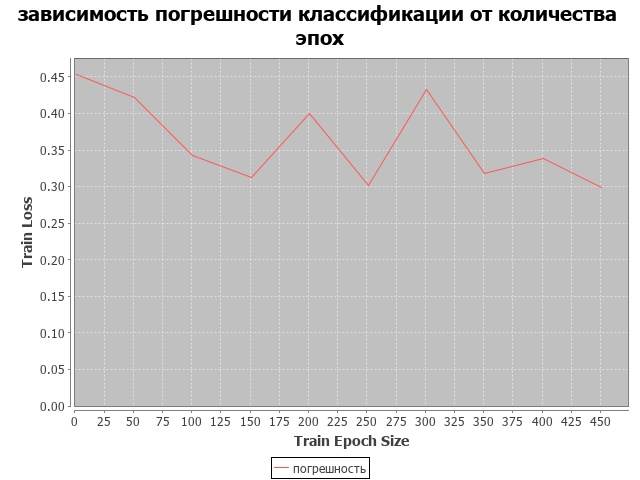
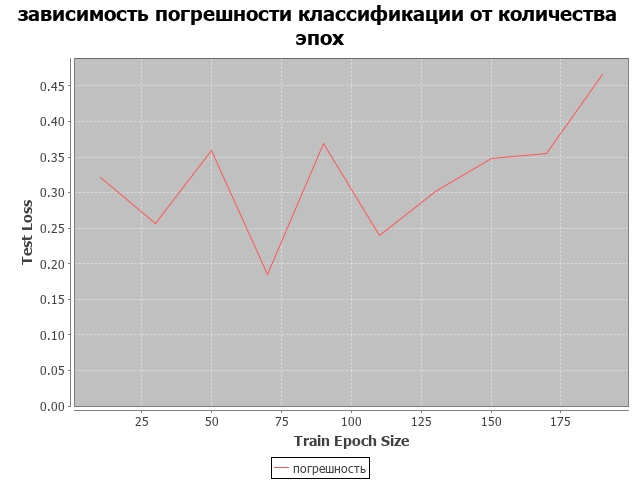
Final

diff --git a/src/main/java/bchk_perceptron/Main.java b/src/main/java/bchk_perceptron/Main.java
@@ -32,15 +32,60 @@ public class Main {
 
     //todo: 1. by Nu -- done 2. by fuzzy neuron -- done  3. by hidden neurons -- done  4. by trainSize 5. epoch -- done
     public static void main(String[] args) throws IOException {
-       // epochTest();
-       // learnSpeedTest();
+         //epochTest();
+       //learnSpeedTest();
         //onetimetest();
         //fuzzyLayerSize();
         //deepNeuroneLayerSize();
-        byTestSize();
+        //byTestSize();
+        //learnSpeedTest2();
+        successful();
 
     }
 
+
+    public static void successful() throws IOException {
+        double[][] myset = DatasetTools.WineSet.readWineData();
+        PreprocessingTools.shuffle(myset, (int) new Date().getTime());
+        PreprocessingTools.normalize(myset, -1, 1);
+
+        List<String> pam = new ArrayList<>();
+        for (int i = 0; i < 3; i++) {
+            pam.add(i, Integer.toString(i + 1));
+        }
+
+
+        //double[] res = {0.0, 0.0};
+
+
+        Model model = new Model();
+        ModelConfiguration mc = ModelConfiguration.prepareConfigurationForFuzzyTest(myset, pam);
+        List<Double> x = new ArrayList<>();
+        List<Double> y = new ArrayList<>();
+        List<Double> z = new ArrayList<>();
+        for (int i = 0; i < 1; i ++) {
+            mc.setTestSize(96);
+            mc.setTrainSize(70);
+            mc.setEpochs(150);
+            mc.setFuzzySize(23);
+            mc.setPerceptronSize(14); //4 na 9, 5 na 10, 6 na 12
+            mc.setNu(0.85);
+            Model models = new Model();
+
+            double[] res = {0.0, 0.0};
+            models.createAndExecute(mc, true, res);
+            // x.add((double)i);
+            x.add((double) i);
+            y.add(res[1]);
+            z.add(res[0]);
+        }
+        System.out.println(x.size());
+        System.out.println(y.size());
+        for (int i = 0; i < x.size(); i++) {
+            System.out.println();
+            System.out.println(x.get(i) + " Test Loss " + y.get(i) + " Train loss " + z.get(i));
+        }
+    }
 
     public static void byTestSize() throws IOException {
         double[][] myset = DatasetTools.WineSet.readWineData();
@@ -63,10 +108,13 @@ public class Main {
         List<Double> x = new ArrayList<>();
         List<Double> y = new ArrayList<>();
         List<Double> z = new ArrayList<>();
-        for (int i = 10; i < 178; i += 10) {
+        for (int i = 10; i < 178; i += 2) {
             mc.setEpochs(150);
-            mc.setTestSize(178-i);
-            mc.setTrainSize(i);
+            mc.setNu(0.85);
+            mc.setFuzzySize(45);
+            mc.setPerceptronSize(14);
+            mc.setTestSize(i);
+            mc.setTrainSize(178-i);
             Model models = new Model();
 
             double[] res = {0.0, 0.0};
@@ -81,7 +129,7 @@ public class Main {
         for (int i = 0; i < x.size(); i++) {
             System.out.println(x.get(i) + " Test Loss " + y.get(i) + " Train loss " + z.get(i));
         }
-        draw(x, y, "Train size", "Train Loss", "зависимость погрешности классификации от величины тестовой выборки", "TrainSize", "погрешность");
+        draw(x, y, "Test size", "Loss", "зависимость погрешности классификации от величины тестовой выборки", "TrainSize", "погрешность");
     }
 
 
@@ -109,6 +157,10 @@ public class Main {
         List<Double> z = new ArrayList<>();
         for (int i = 1; i < 50; i += 1) {
             mc.setEpochs(150);
+            mc.setNu(0.85);
+            mc.setTrainSize(50);
+            mc.setTestSize(128);
+            mc.setFuzzySize(45);
             mc.setPerceptronSize(i);
             Model models = new Model();
 
@@ -124,7 +176,7 @@ public class Main {
         for (int i = 0; i < x.size(); i++) {
             System.out.println(x.get(i) + " Test Loss " + y.get(i) + " Train loss " + z.get(i));
         }
-        draw(x, y, "DeepNeurons size", "Train Loss", "зависимость погрешности классификации от количества нейронов скрытого слоя", "deepNeuroneSize", "погрешность");
+        draw(x, y, "DeepNeurons size", "Train Loss", "зависимость погрешности обучения и классификации от количества нейронов скрытого слоя", "deepNeuroneSize",x,z, "тестирование","обучение");
     }
 
 
@@ -154,6 +206,9 @@ public class Main {
         List<Double> z = new ArrayList<>();
         for (int i = 1; i < 50; i += 1) {
             mc.setEpochs(150);
+            mc.setNu(0.85);
+            mc.setTrainSize(50);
+            mc.setTestSize(128);
             mc.setFuzzySize(i);
             Model models = new Model();
 
@@ -235,7 +290,9 @@ public class Main {
         List<Double> z = new ArrayList<>();
         for (double i = 0.1; i < 3.1; i += 0.05) {
             // mc.setEpochs(10);
-            mc.setEpochs(50);
+            mc.setEpochs(150);
+            mc.setTrainSize(50);
+            mc.setTestSize(128);
             mc.setNu(i);
             Model models = new Model();
 
@@ -253,6 +310,55 @@ public class Main {
         }
         draw(x, y, "Train Nu Value", "Train Loss", "зависимость погрешности классификации от скорость обучения", "testNu", "погрешность");
     }
+
+    public static void learnSpeedTest2() throws IOException{
+        double[][] myset = DatasetTools.WineSet.readWineData();
+        PreprocessingTools.shuffle(myset, (int) new Date().getTime());
+        PreprocessingTools.normalize(myset, -1, 1);
+
+        List<String> pam = new ArrayList<>();
+        for (int i = 0; i < 3; i++) {
+            pam.add(i, Integer.toString(i + 1));
+        }
+
+
+        //double[] res = {0.0, 0.0};
+
+
+        Model model = new Model();
+        ModelConfiguration mc = ModelConfiguration.prepareConfigurationForFuzzyTest(myset, pam);
+        //model.createAndExecute(mc,false,res );
+
+        List<Double> x = new ArrayList<>();
+        List<Double> y = new ArrayList<>();
+        List<Double> z = new ArrayList<>();
+        for (double i = 0.01; i < 2.0; i += 0.01) {
+            // mc.setEpochs(10);
+            mc.setTestSize(89);
+            mc.setTrainSize(89);
+            mc.setEpochs(50);
+            mc.setFuzzySize(7);
+            mc.setPerceptronSize(12); //4 na 9, 5 na 10, 6 na 12
+            mc.setNu(i);
+            Model models = new Model();
+
+            double[] res = {0.0, 0.0};
+            models.createAndExecute(mc, true, res);
+            // x.add((double)i);
+            x.add((double) i);
+            y.add(res[1]);
+            z.add(res[0]);
+        }
+        System.out.println(x.size());
+        System.out.println(y.size());
+        for (int i = 0; i < x.size(); i++) {
+            System.out.println(x.get(i) + " Test Loss " + y.get(i) + " Train loss " + z.get(i));
+        }
+        draw(x, y, "Train Nu Value", "Train Loss", "зависимость погрешности классификации от скорость обучения", "testNu6",x,z, "тестирование","обучение");
+    }
+
+
+
 
 
     public static void epochTest() throws IOException {
@@ -276,9 +382,14 @@ public class Main {
         List<Double> x = new ArrayList<>();
         List<Double> y = new ArrayList<>();
         List<Double> z = new ArrayList<>();
-        for (int i = 1; i < 500; i += 50) {
-            // mc.setEpochs(10);
+        for (int i = 10; i < 200; i += 20) {
             mc.setEpochs(i);
+            //mc.setEpochs(150);
+            mc.setNu(0.85);
+            mc.setFuzzySize(45);
+            mc.setPerceptronSize(14);
+            mc.setTestSize(82);
+            mc.setTrainSize(96);
             Model models = new Model();
 
             double[] res = {0.0, 0.0};
@@ -295,7 +406,7 @@ public class Main {
         for (int i = 0; i < x.size(); i++) {
             System.out.println(x.get(i) + " Test Loss " + y.get(i) + " Train loss " + z.get(i));
         }
-        draw(x, y, "Train Epoch Size", "Train Loss", "зависимость погрешности классификации от количества эпох", "testEpoch", "погрешность");
+        draw(x, y, "Train Epoch Size", "Test Loss", "зависимость погрешности классификации от количества эпох", "testEpoch", "погрешность");
     }
 
 

diff --git a/src/main/java/bchk_perceptron/ModelTools/Model.java b/src/main/java/bchk_perceptron/ModelTools/Model.java
@@ -102,7 +102,7 @@ public class Model {
             }
 
         }
-        double trainRes = sum / (train.length * secondLayer.getNeurons().size() - 1.0);
+        double trainRes = sum / (train.length * secondLayer.getNeurons().size());
 
         System.out.printf("\nTrain result: %d / %d;", counter, train.length);
 
@@ -143,7 +143,7 @@ public class Model {
             }
         }
 
-        double testRes = sum / (test.length * secondLayer.getNeurons().size() - 1.0);
+        double testRes = sum / (test.length * secondLayer.getNeurons().size());
         System.out.printf("\nTest result: %d / %d;", counter, test.length);
 
         rmse[1] = testRes;

diff --git a/src/main/java/bchk_perceptron/layers/FuzzyLayer.java b/src/main/java/bchk_perceptron/layers/FuzzyLayer.java
@@ -120,7 +120,7 @@ public class FuzzyLayer implements LayerOperations {
                 sigmaI = Math.sqrt(1/(neuronsList.size()*sum));
                 for (Map.Entry<NeuronOperations, Weight> in : neurone.getInputSignalsList().entrySet()){
                     outI = Math.pow(in.getValue().getValue() - neurone.getSignal(),2);
-                    in.getValue().setValue(Math.exp(-outI/(2*sigmaI)));
+                    //in.getValue().setValue(Math.exp(-outI/(2*sigmaI)));
                 }
                 outI = Math.exp(-outI/(2*sigmaI));
                 neurone.setOutPut(outI);

diff --git a/src/main/java/bchk_perceptron/ModelTools/ModelConfiguration.java b/src/main/java/bchk_perceptron/ModelTools/ModelConfiguration.java
@@ -158,8 +158,8 @@ public class ModelConfiguration {
 
         config.setTrainSize(50);
         config.setTestSize(128);
-        config.setBorder(0.00001);
-        config.setDifBorder(0.0001);
+        config.setBorder(0.000001);
+        config.setDifBorder(0.000001);
 
         double nuDelta = 0.01;
 
